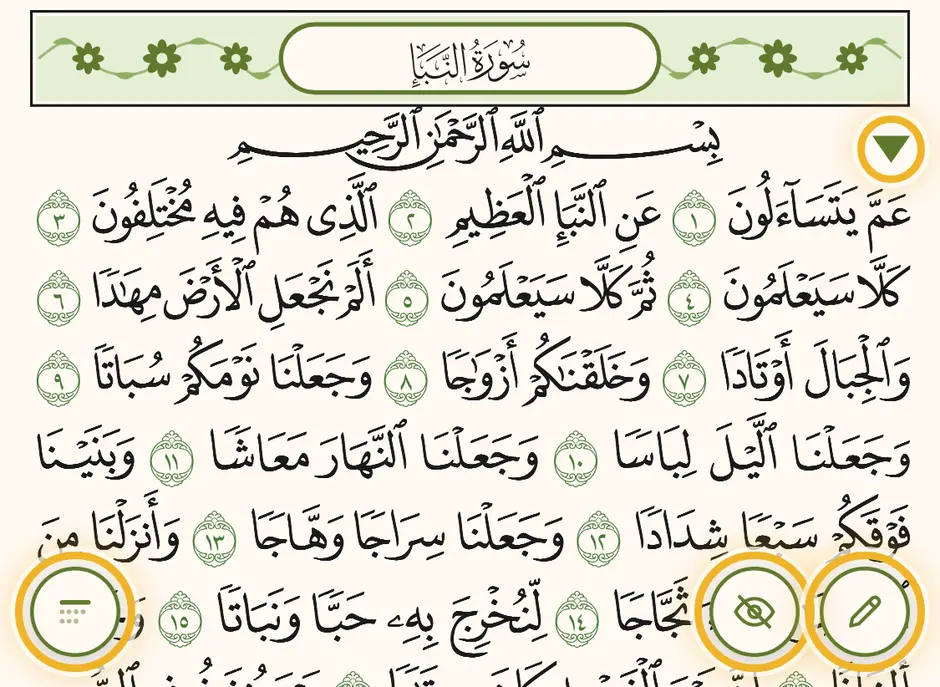
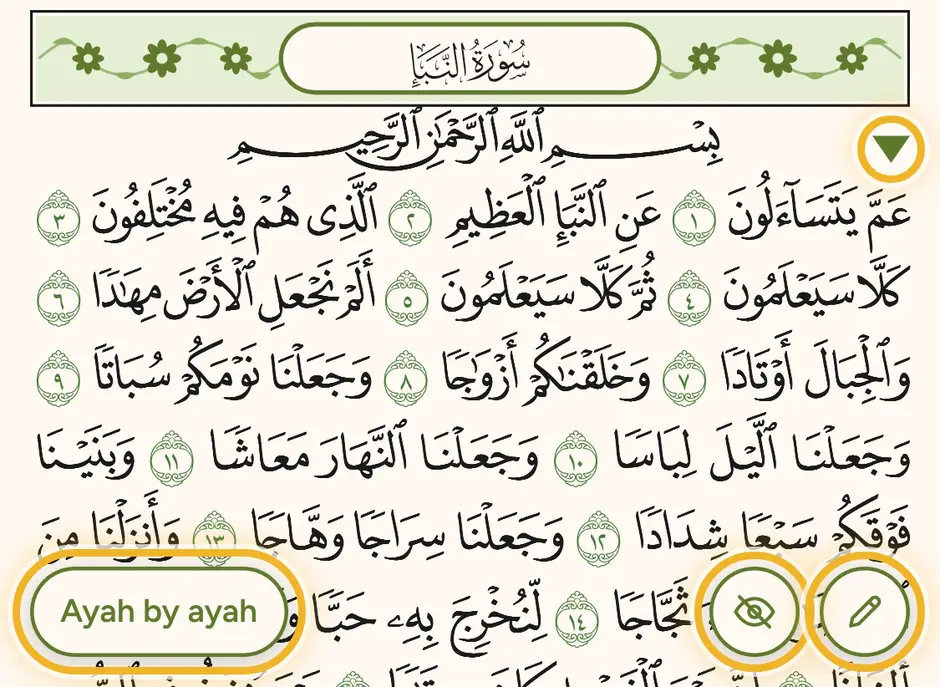
Name the ayah by ayah button, and make its exit red
The ayah by ayah toggle is now an outlined pill saying "Ayah by ayah"
instead of an icon of lines. The × that leaves the mode is red, like the
pen's Clear page. On phones under 360px wide, ‹ › with the pen on sit
between the pill and the hide button so they never touch. Intro and tip
pictures retaken.

Claude-Session: https://claude.ai/code/session_01Co3JXumQV2vF34bDNqrmHh

Changed region(s): [[0.0, 0.7642, 0.3394, 1.0]]

diff --git a/src/index.css b/src/index.css
@@ -795,6 +795,10 @@ select, input[type='number'] {
   transition: opacity var(--motion-calm) ease;
 }
 .page-turns.faded-out { opacity: 0; pointer-events: none; }
+/* On a narrow phone, centred between the "Ayah by ayah" pill and the hide button, so neither touches them. */
+@media (max-width: 359px) {
+  .page-turns { transform: translateX(calc(-50% + var(--space-3))); }
+}
 .mushaf:has(.m-foot) .page-turns { bottom: calc(var(--float-button) + 2 * var(--space-3) + env(safe-area-inset-bottom)); }
 .page-turns button {
   width: var(--float-button);
@@ -808,10 +812,24 @@ select, input[type='number'] {
 }
 .page-turns svg { width: var(--float-icon); height: var(--float-icon); fill: none; stroke: currentColor; stroke-width: 2.4; stroke-linecap: round; stroke-linejoin: round; }
 
-/* Ayah by ayah: off, a round toggle in the bottom left corner. On, a row of "+ ayah", the slider and a round
-   exit button in one row across the bottom; "+ ayah" also holds the count. Hide and the pen are put away meanwhile.
-   They fade with the hide button. */
-.step-toggle,
+/* Ayah by ayah: off, an outlined pill saying "Ayah by ayah" in the bottom left corner, so it needs no guessing. On,
+   "+ ayah", "2. half" and a round exit button in one row across the bottom; "+ ayah" also holds the count. The exit
+   is red, like the pen's Clear page: it leaves the mode. Hide and the pen are put away meanwhile. They fade with the
+   hide button. */
+.step-toggle {
+  position: fixed;
+  left: var(--space-3);
+  bottom: calc(var(--space-3) + env(safe-area-inset-bottom));
+  height: var(--float-button);
+  padding-inline: var(--space-3);
+  border-radius: 999px;
+  background: var(--mushaf-paper);
+  color: var(--mushaf-olive);
+  box-shadow: var(--float-shadow), inset 0 0 0 1.5px var(--mushaf-olive);
+  font-size: var(--mushaf-head-size);
+  white-space: nowrap;
+  transition: opacity var(--motion-calm) ease;
+}
 .step-exit {
   position: relative;
   width: var(--float-button);
@@ -820,20 +838,12 @@ select, input[type='number'] {
   display: grid;
   place-items: center;
   background: var(--mushaf-paper);
-  color: var(--mushaf-olive);
-  box-shadow: var(--float-shadow), inset 0 0 0 1.5px var(--mushaf-olive);
-}
-.step-toggle {
-  position: fixed;
-  left: var(--space-3);
-  bottom: calc(var(--space-3) + env(safe-area-inset-bottom));
-  transition: opacity var(--motion-calm) ease;
+  color: var(--mushaf-pen);
+  box-shadow: var(--float-shadow), inset 0 0 0 1.5px var(--mushaf-pen);
 }
 .step-toggle.faded-out { opacity: 0; pointer-events: none; }
 .mushaf:has(.m-foot) .step-toggle { bottom: calc(var(--float-button) + 2 * var(--space-3) + env(safe-area-inset-bottom)); }
-.step-toggle svg,
 .step-exit svg { width: var(--float-icon); height: var(--float-icon); fill: none; stroke: currentColor; stroke-width: 2.4; stroke-linecap: round; }
-.step-toggle .faint { opacity: 0.5; stroke-dasharray: 0.1 3.6; }
 .step-toggle::after,
 .step-exit::after {
   content: '';

diff --git a/src/MushafPage.tsx b/src/MushafPage.tsx
@@ -596,8 +596,8 @@ export default function MushafPage({
         </div>
       )}
 
-      {/* Ayah by ayah: off, a toggle in the bottom left corner; on, one row of "+ ayah" (the count on its left), the
-          halves and a button to leave it. */}
+      {/* Ayah by ayah: off, a pill named for it in the bottom left corner; on, one row of "+ ayah" (the count on its
+          left), the halves and a red × to leave it. */}
       {pageSteps ? (
         <div className={`step-tools ${buttonVisible ? '' : 'faded-out'}`}>
           <button
@@ -636,13 +636,9 @@ export default function MushafPage({
             onSteps(FRESH_STEPS)
             tipOnce('ayah-by-ayah')
           }}
-          aria-label="Ayah by ayah"
           tabIndex={buttonVisible ? 0 : -1}
         >
-          <svg viewBox="0 0 24 24" aria-hidden="true">
-            <path d="M5 7h14" />
-            <path className="faint" d="M5 12h14M5 17h9" />
-          </svg>
+          Ayah by ayah
         </button>
       )}
 

diff --git a/PLAN.md b/PLAN.md
@@ -51,6 +51,7 @@ Changes from my note cards. I rate each Surah myself (★ weak, ★½ last page 
 - No Arabic-script labels or new settings
 
 31. ✅ **Tips say only what their picture shows** (builder's request): each tip's words name only what is in its picture, and every gold ring is something the words name. Rabt and Muraja'a show the start triangle with the page's buttons below it ("Green triangles like this one mark where today's Rabt starts and ends. If the buttons fade, tap the page."), on a short screen so both fit. Today's Hifz rings "+ ayah", "2. half" and ×; ayah by ayah rings × too; the pen rings ‹ and ›; hide rings the ayah tapped to show it; rating rings the choices. Day done no longer mentions History, Rate no longer mentions the Surahs screen, and the History tip is about backing up (its picture). Crops no longer cut a line or button in half, and the ring round Undo hugs the word.
+32. ✅ **A named "Ayah by ayah" and a red exit** (builder's request): the ayah by ayah toggle in the bottom left corner is an outlined pill that says "Ayah by ayah" instead of an icon of lines, so it needs no guessing. The × that leaves ayah by ayah is red, like the pen's Clear page, since it leaves the mode. On a phone narrower than 360px, ‹ › (with the pen on) sit centred between the pill and the hide button so nothing touches. Intro and tip pictures retaken.
 ## How we'll know it works
 
 1. Rate al-Mulk ★★★ and al-Qalam ★: the Surahs screen shows al-Mulk under strong and al-Qalam under weak, and both are still there after a Backup and restore.
